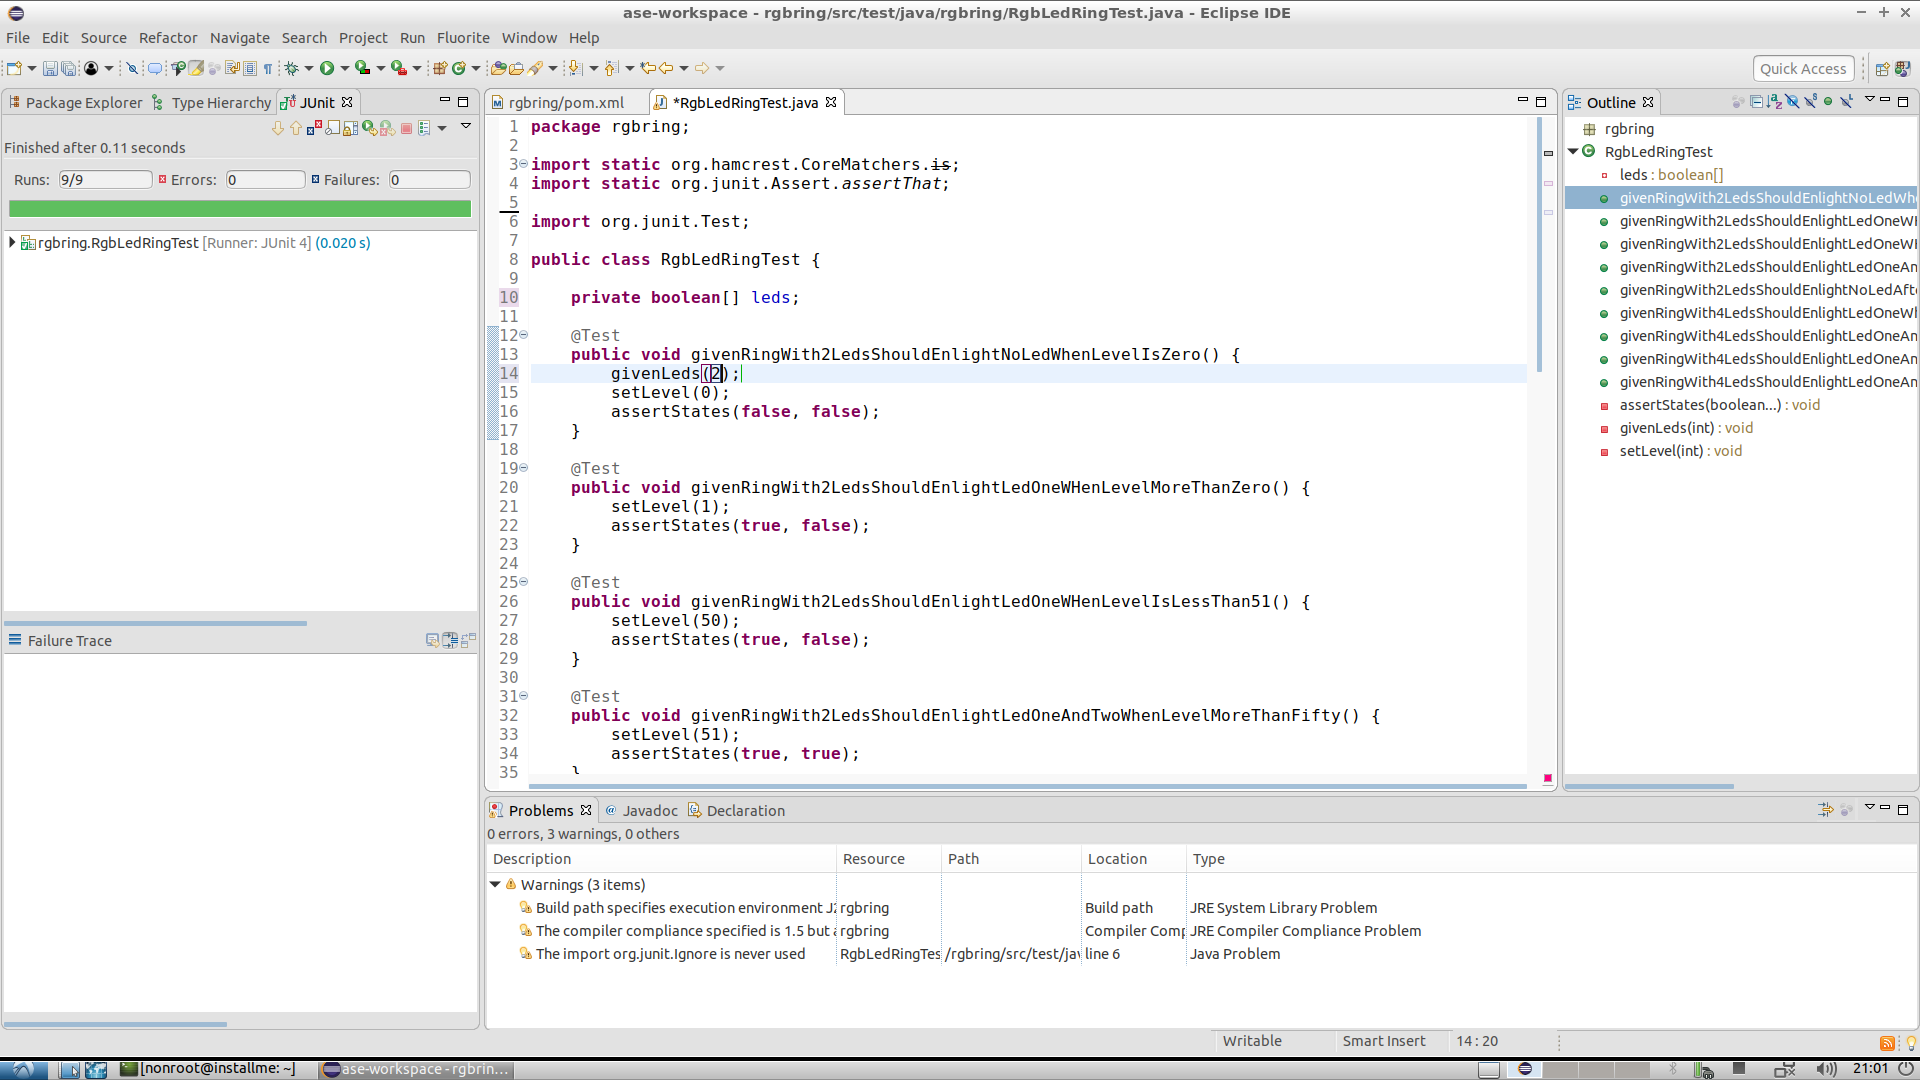
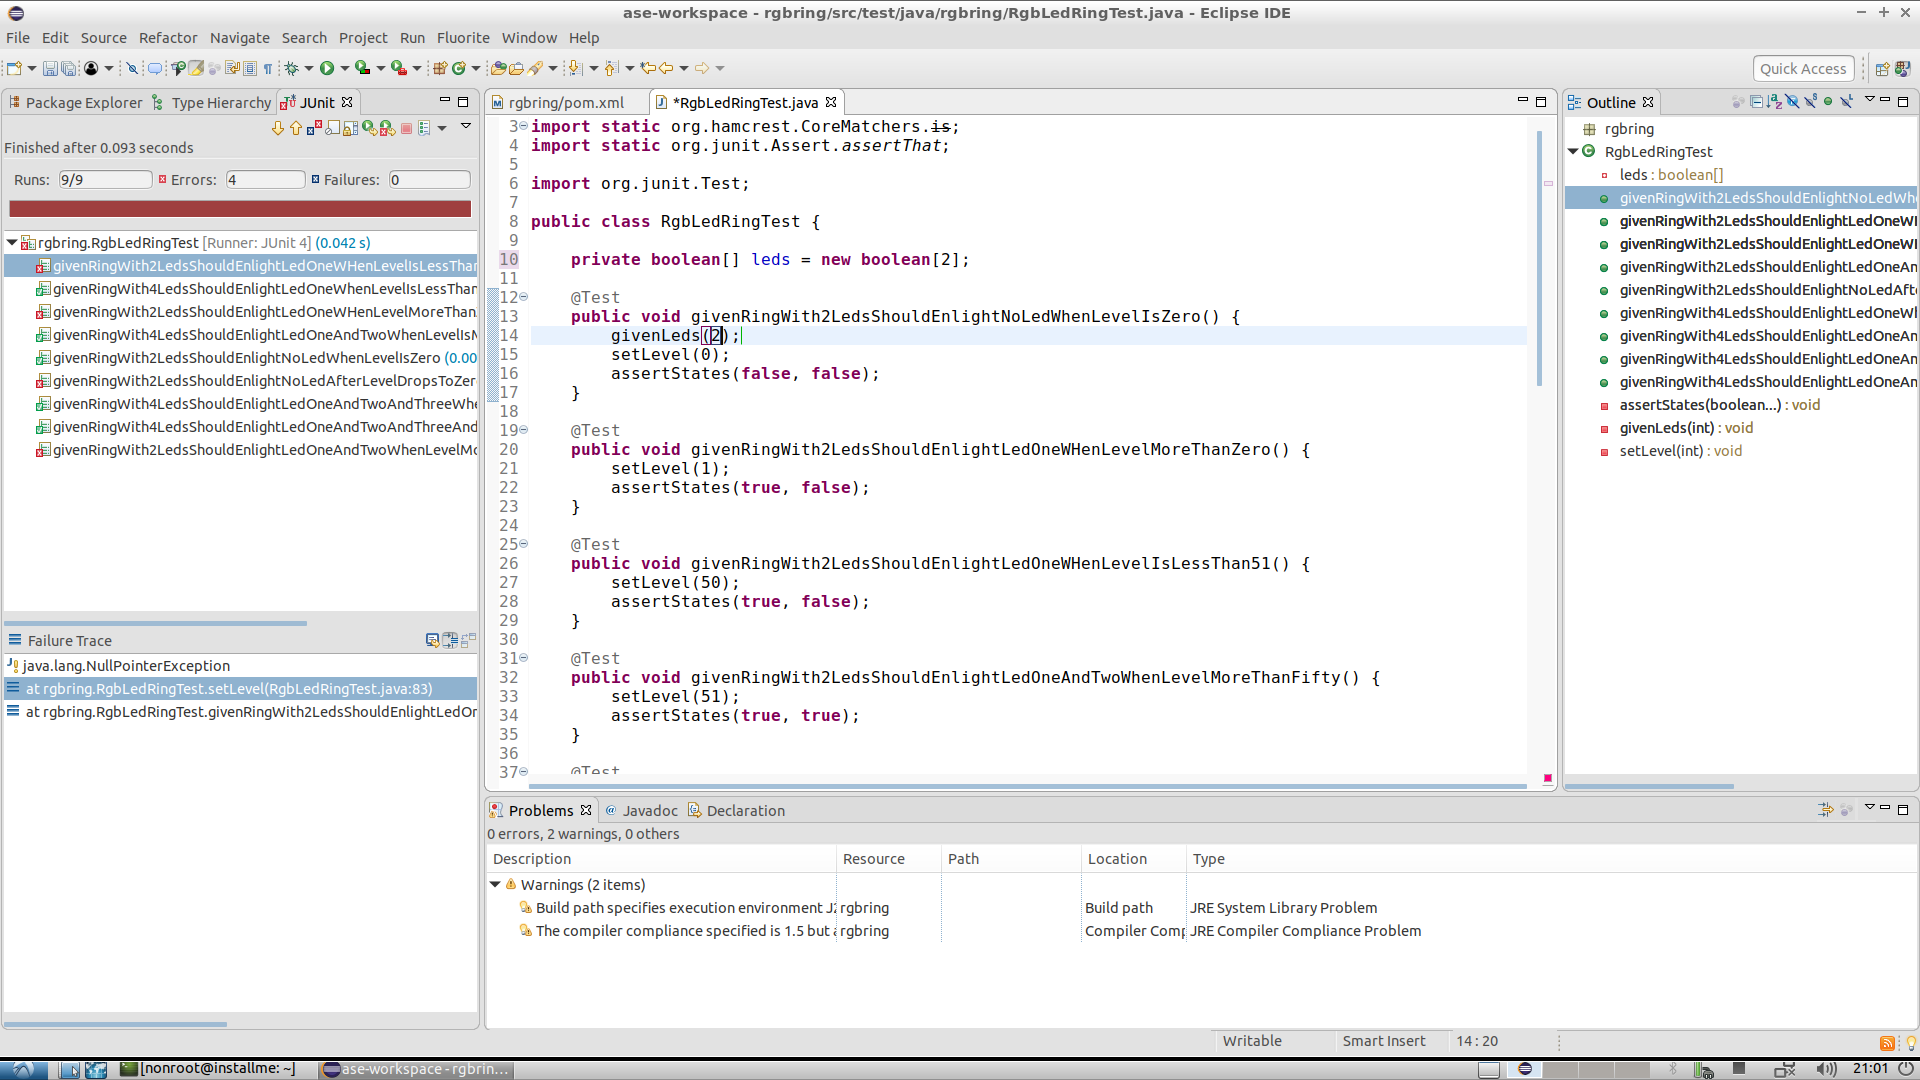
autocommit on change

diff --git a/src/test/java/rgbring/RgbLedRingTest.java b/src/test/java/rgbring/RgbLedRingTest.java
@@ -7,7 +7,7 @@ import org.junit.Test;
 
 public class RgbLedRingTest {
 
-	private boolean[] leds;
+	private boolean[] leds = new boolean[2];
 
 	@Test
 	public void givenRingWith2LedsShouldEnlightNoLedWhenLevelIsZero() {
